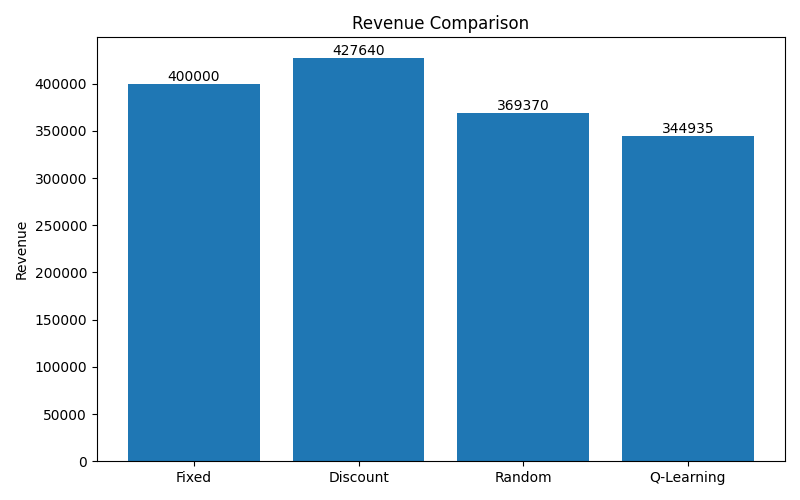
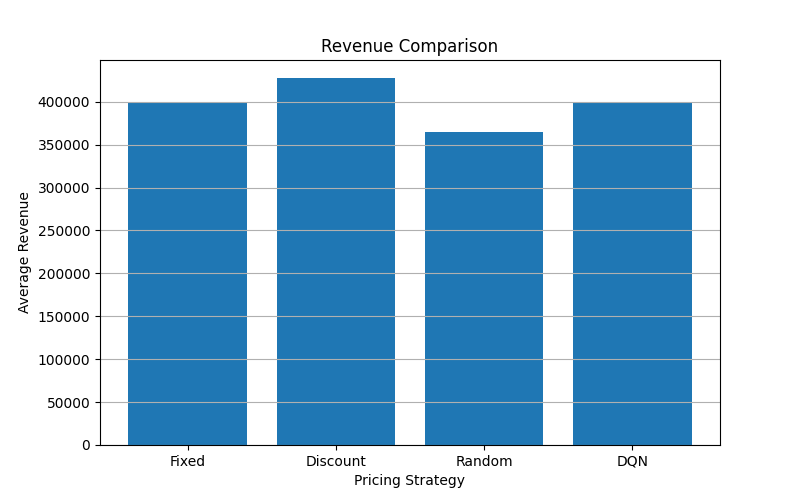
Updating DQN evaluating pipeline

diff --git a/evaluate_dqn.py b/evaluate_dqn.py
@@ -59,3 +59,67 @@ def evaluate_agent(agent, episodes=20):
 
     return sum(rewards) / len(rewards)
 
+# =====================================
+# Evaluate All Agents
+# =====================================
+
+print("\nEvaluating Agents...\n")
+
+fixed_score = evaluate_agent(fixed_agent)
+
+discount_score = evaluate_agent(discount_agent)
+
+random_score = evaluate_agent(random_agent)
+
+dqn_score = evaluate_agent(dqn_agent)
+
+# =====================================
+# Print Results
+# =====================================
+
+print("=" * 45)
+
+print(f"Fixed Pricing     : ₹{fixed_score:.2f}")
+
+print(f"Discount Pricing  : ₹{discount_score:.2f}")
+
+print(f"Random Pricing    : ₹{random_score:.2f}")
+
+print(f"DQN Agent         : ₹{dqn_score:.2f}")
+
+print("=" * 45)
+
+# =====================================
+# Plot Revenue Comparison
+# =====================================
+
+agents = [
+    "Fixed",
+    "Discount",
+    "Random",
+    "DQN"
+]
+
+revenues = [
+    fixed_score,
+    discount_score,
+    random_score,
+    dqn_score
+]
+
+plt.figure(figsize=(8, 5))
+
+plt.bar(agents, revenues)
+
+plt.title("Revenue Comparison")
+
+plt.xlabel("Pricing Strategy")
+
+plt.ylabel("Average Revenue")
+
+plt.grid(axis="y")
+
+plt.savefig("models/revenue_comparison.png")
+
+plt.show()
+print("\nEvaluation Completed Successfully.")
